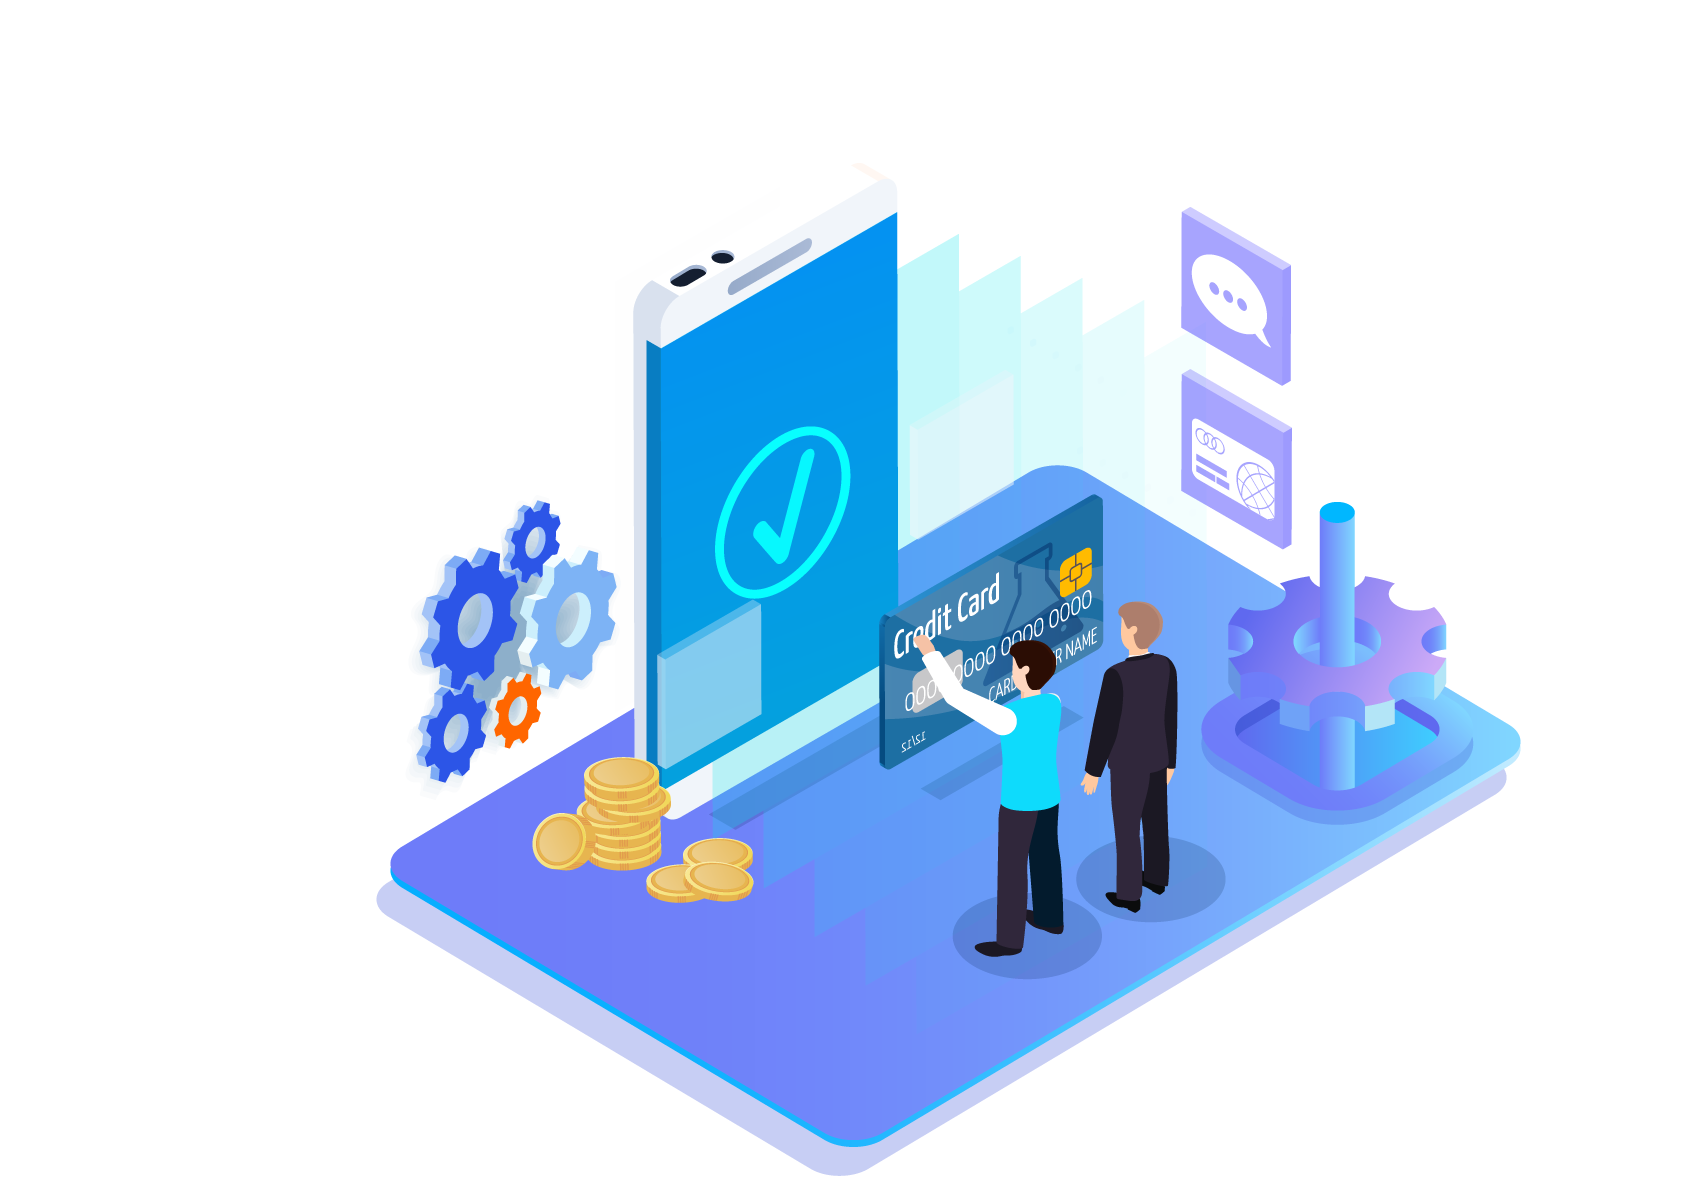
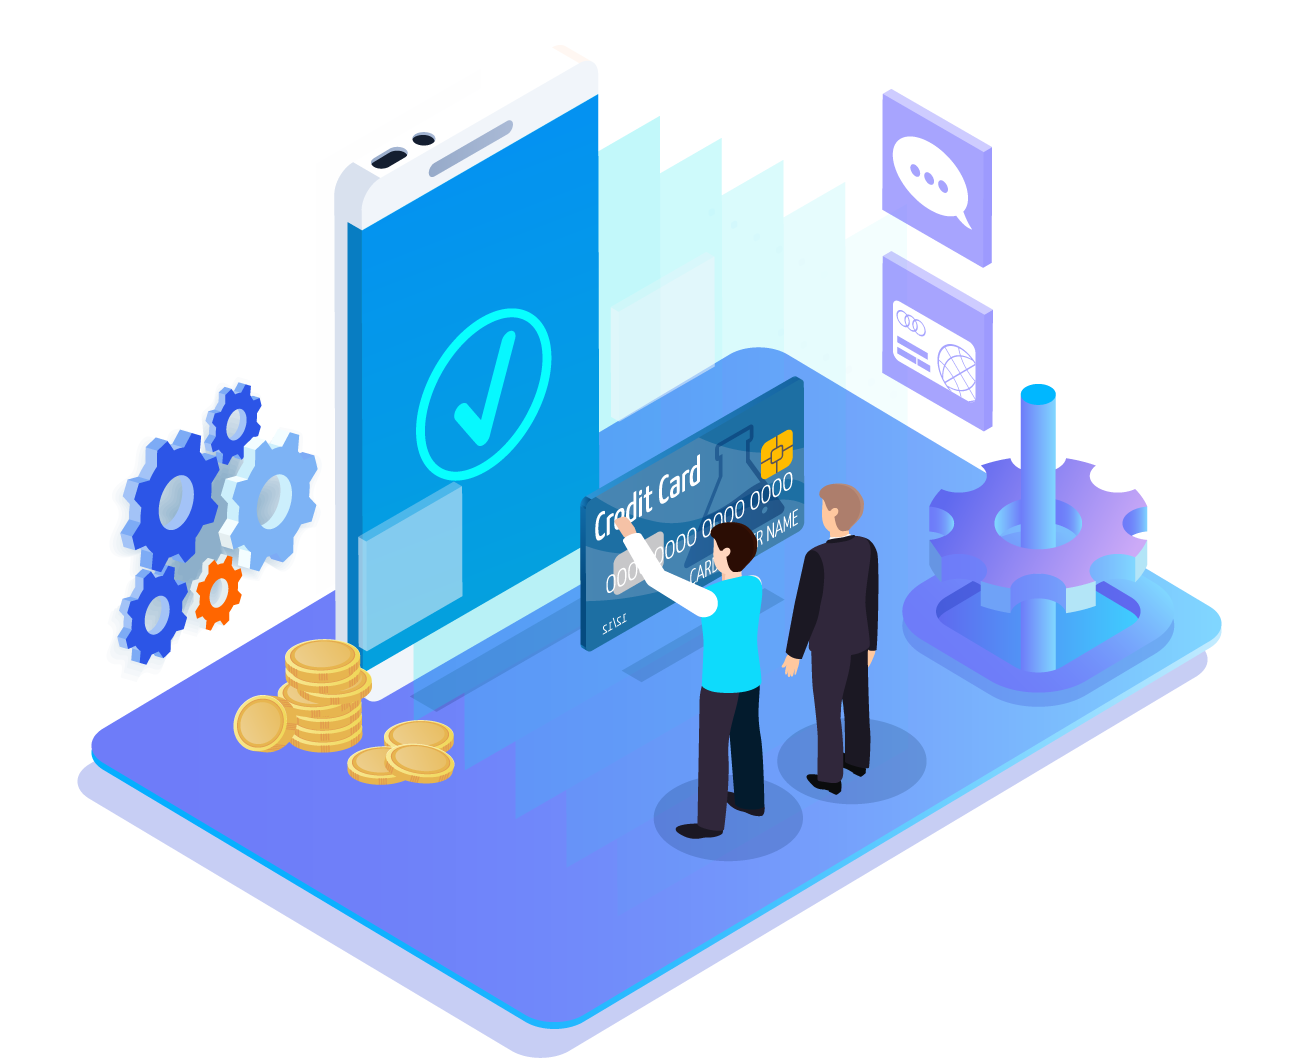
内控系列管控系统登录修改

diff --git a/src/views/login/internalControl/LoginD.vue b/src/views/login/internalControl/LoginD.vue
@@ -206,7 +206,7 @@ $light_gray: #eee;
   }
   .el-form-item {
     box-sizing: content-box;
-    margin-bottom: 15px;
+    margin-bottom: 20px;
     padding-bottom: 0;
     border-radius: 10px;
     width: 100%;
@@ -250,9 +250,11 @@ $light_gray: #eee;
     position: absolute;
     left: 50%;
     top: 50%;
-    margin-top: 60px;
+    margin-top: 6%;
     text-align: right;
     transform: translate(-50%, -50%);
+    width: 50%;
+    max-width: 650px;
     img {
       max-width: 100%;
       //height: 100%;
@@ -338,7 +340,7 @@ $light_gray: #eee;
         line-height: 75px;
         font-family: MicrosoftYaHei-Bold, MicrosoftYaHei, sans-serif;
         font-weight: bold;
-        font-size: 50px;
+        font-size: 44px;
         color: #333
       }
     }
@@ -432,7 +434,7 @@ $light_gray: #eee;
       margin-top: -10%;
     }
     .login-img {
-      width: 70%;
+      width: 55%;
       //margin-left:5%
     }
     .login-form {

diff --git a/src/views/login/internalControl/LoginE.vue b/src/views/login/internalControl/LoginE.vue
@@ -198,7 +198,7 @@ $cursor: #fff;
   }
   .el-form-item {
     box-sizing: content-box;
-    margin-bottom: 15px;
+    margin-bottom: 20px;
     padding-bottom: 0;
     border-radius: 10px;
     width: 100%;
@@ -231,8 +231,8 @@ $cursor: #fff;
   .login-pic{
     position: relative;
     flex:1;
-    //background: url('@/assets/img/login/internalControl/loginE/login-pic-bg.png') top center no-repeat;
-    //background-size: 100% 100%;
+    background: url('@/assets/img/login/internalControl/loginE/login-pic-bg.png') top center no-repeat;
+    background-size: cover;
     img {
       animation: float 6s ease-in-out infinite;
     }
@@ -332,7 +332,7 @@ $cursor: #fff;
         line-height: 75px;
         font-family: MicrosoftYaHei-Bold, MicrosoftYaHei, sans-serif;
         font-weight: bold;
-        font-size: 50px;
+        font-size: 44px;
         color: #333
       }
     }
